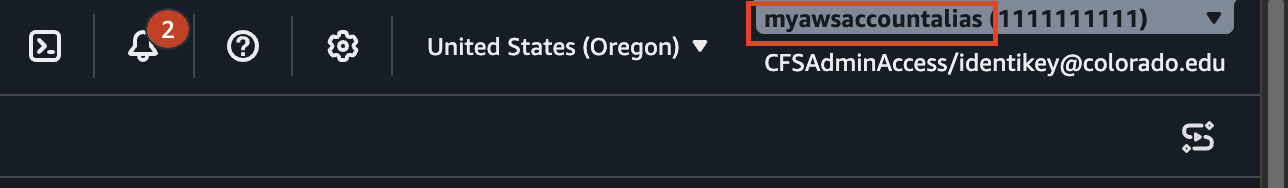
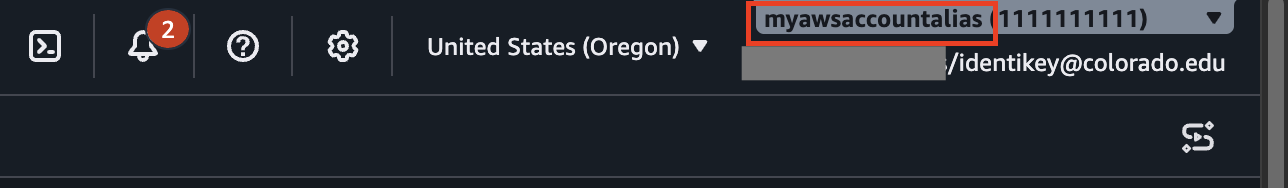
update screenshot and add entra link

Changed region(s): [[0.559, 0.2394, 0.7453, 0.4521]]

diff --git a/docs/cloud/aws/lca0/getting-started/managing-customer-groups.md b/docs/cloud/aws/lca0/getting-started/managing-customer-groups.md
@@ -63,7 +63,7 @@ Users can be removed from accessing the AWS account by removing them from the Gr
 3. Verify the user(s) no longer appear in the table.
 
 ## Non CU Boulder Users
-Non CU Boulder user groups are managed through Microsoft Entra groups.
+Non CU Boulder user groups are managed through [Microsoft Entra groups](https://portal.azure.com/#view/Microsoft_AAD_IAM/GroupsManagementMenuBlade/~/Overview).
 
 ### Your Group Name
 The Entra group name to manage access to your AWS account is in the form '\<account-alias\>-CustomerAdmin'.

diff --git a/docs/cloud/aws/lca1/getting-started/managing-customer-groups.md b/docs/cloud/aws/lca1/getting-started/managing-customer-groups.md
@@ -76,7 +76,7 @@ Users can be removed from accessing the AWS account by removing them from the Gr
 3. Verify the user(s) no longer appear in the table.
 
 ## Non CU Boulder Users
-Non CU Boulder user groups are managed through Microsoft Entra groups.
+Non CU Boulder user groups are managed through [Microsoft Entra groups](https://portal.azure.com/#view/Microsoft_AAD_IAM/GroupsManagementMenuBlade/~/Overview).
 
 ### Your Group Name
 The Entra group name to manage access to your AWS account is in the form '\<account-alias\>-CustomerAdmin'.